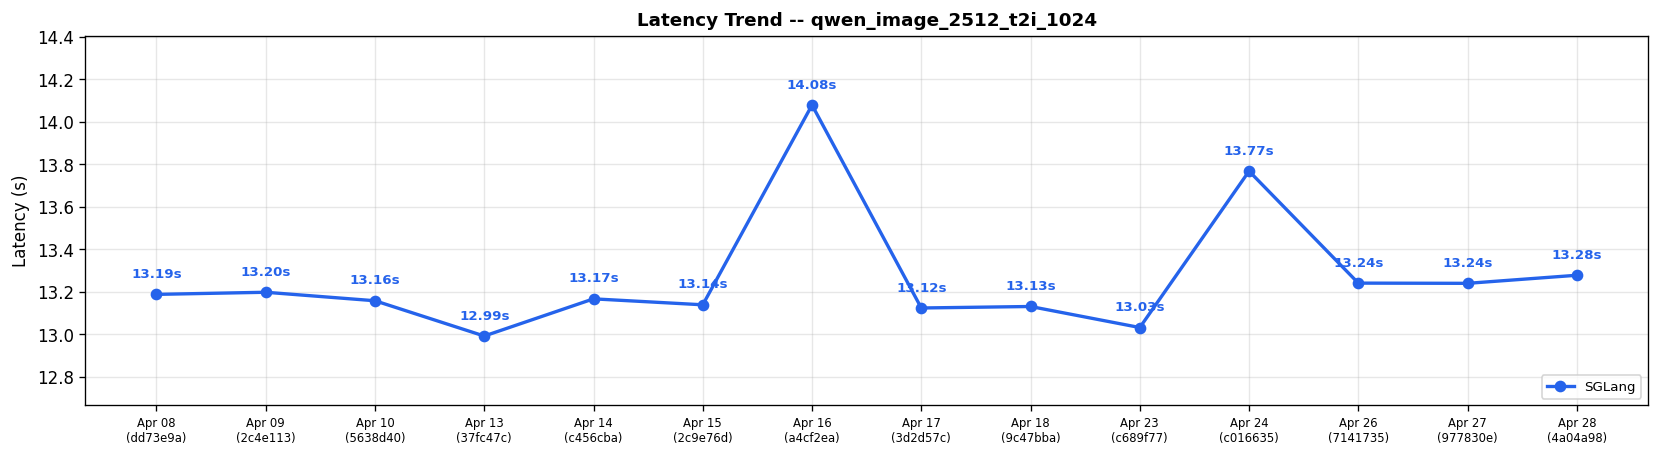
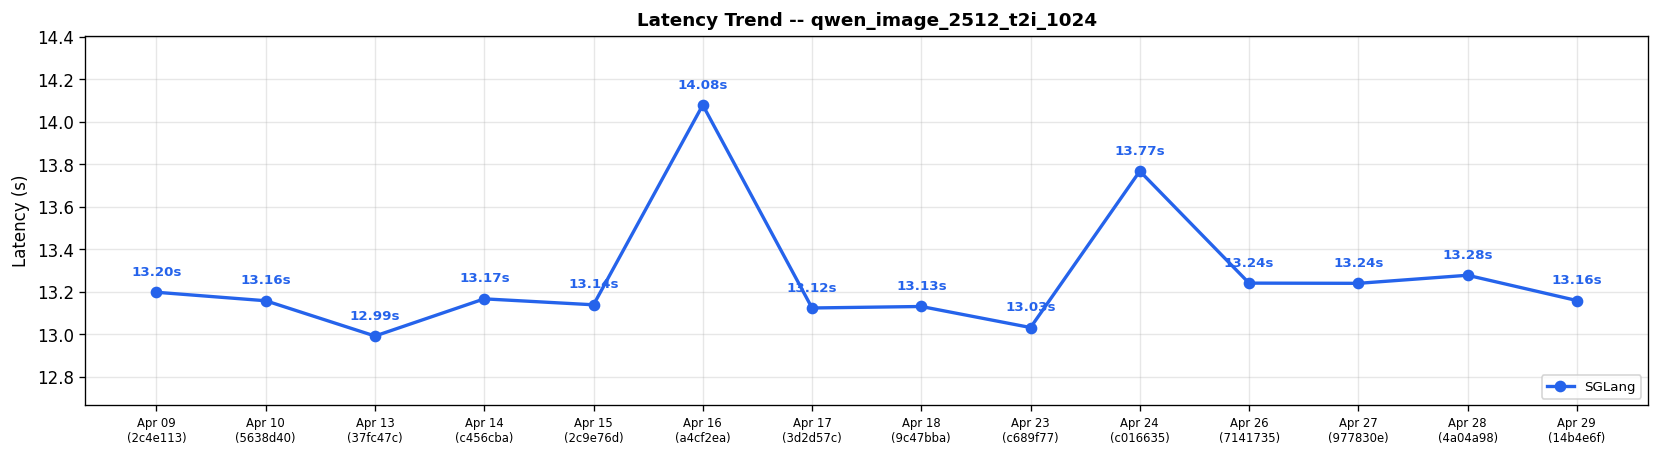
Diffusion comparison results for run 25085535219 (#586)

diff --git a/diffusion-comparisons/dashboard.md b/diffusion-comparisons/dashboard.md
@@ -1,21 +1,21 @@
 # Diffusion Cross-Framework Performance Dashboard
 
-*Generated: Apr 28 | Commit: `4a04a98`*
+*Generated: Apr 29 | Commit: `14b4e6f`*
 
 ## Cross-Framework Performance Comparison
 
 | Model | Risk | sglang (s) |
 |-------|------|---------|
 | FLUX.1-dev | ✅ | **6.69** |
-| FLUX.2-dev | ✅ | **22.75** |
-| Qwen-Image-2512 | ✅ | **13.28** |
-| Qwen-Image-Edit-2511 | ✅ | **23.89** |
+| FLUX.2-dev | ✅ | **22.78** |
+| Qwen-Image-2512 | ✅ | **13.16** |
+| Qwen-Image-Edit-2511 | ✅ | **23.84** |
 | Z-Image-Turbo | ✅ | **0.89** |
-| Wan2.2-T2V-A14B-Diffusers | ✅ | **211.33** |
-| Wan2.2-TI2V-5B-Diffusers | ✅ | **61.19** |
-| LTX-2 | ✅ | **11.84** |
+| Wan2.2-T2V-A14B-Diffusers | ✅ | **210.95** |
+| Wan2.2-TI2V-5B-Diffusers | ✅ | **62.20** |
+| LTX-2 | ✅ | **11.88** |
 | LTX-2.3 | ❌ | N/A |
-| Wan2.2-I2V-A14B-Diffusers | ✅ | **208.57** |
+| Wan2.2-I2V-A14B-Diffusers | ✅ | **207.67** |
 
 ### Latency Trend: flux1_dev_t2i_1024
 
@@ -71,6 +71,7 @@
 
 | Date | Commit | flux1_dev_t2i_1024 (s) | flux2_dev_t2i_1024 (s) | qwen_image_2512_t2i_1024 (s) | qwen_image_edit_2511 (s) | zimage_turbo_t2i_1024 (s) | wan22_t2v_a14b_720p (s) | wan22_ti2v_5b_720p (s) | ltx2_twostage_t2v (s) | ltx2.3_twostage_ti2v_2gpus (s) | wan22_i2v_a14b_720p (s) | Trend |
 |------|--------|---------|---------|---------|---------|---------|---------|---------|---------|---------|---------|-------|
+| Apr 29 | `14b4e6f` | 6.69 | 22.78 | 13.16 | 23.84 | 0.89 | 210.95 | 62.20 | 11.88 | N/A | 207.67 | :left_right_arrow:  :left_right_arrow:  :left_right_arrow:  :left_right_arrow:  :left_right_arrow:  :left_right_arrow:  :left_right_arrow:  :left_right_arrow:   :left_right_arrow: |
 | Apr 28 | `4a04a98` | 6.69 | 22.75 | 13.28 | 23.89 | 0.89 | 211.33 | 61.19 | 11.84 | N/A | 208.57 | :left_right_arrow:  :left_right_arrow:  :left_right_arrow:  :left_right_arrow:  :left_right_arrow:  :left_right_arrow:  :arrow_down:  :left_right_arrow:   :left_right_arrow: |
 | Apr 27 | `977830e` | 6.72 | 22.91 | 13.24 | 23.91 | 0.89 | 212.10 | 63.20 | 11.80 | N/A | 208.53 | :left_right_arrow:  :left_right_arrow:  :left_right_arrow:  :left_right_arrow:  :left_right_arrow:  :left_right_arrow:  :left_right_arrow:  :left_right_arrow:   :left_right_arrow: |
 | Apr 26 | `7141735` | 6.71 | 22.84 | 13.24 | 23.89 | 0.89 | 212.74 | 62.22 | 11.86 | N/A | 208.55 |          |
@@ -84,8 +85,7 @@
 | Apr 14 | `c456cba` | 6.70 | 22.85 | 13.17 | 23.83 | 0.89 | 210.52 | 62.16 | 14.58 | N/A | 206.54 | :left_right_arrow:  :left_right_arrow:  :left_right_arrow:  :left_right_arrow:  :left_right_arrow:  :left_right_arrow:  :left_right_arrow:  :left_right_arrow:   :left_right_arrow: |
 | Apr 13 | `37fc47c` | 6.60 | 22.61 | 12.99 | 23.60 | 0.88 | 209.76 | 61.17 | 14.74 | N/A | 207.63 | :left_right_arrow:  :left_right_arrow:  :left_right_arrow:  :left_right_arrow:  :left_right_arrow:  :left_right_arrow:  :left_right_arrow:  :arrow_up:   :left_right_arrow: |
 | Apr 10 | `5638d40` | 6.68 | 22.78 | 13.16 | 23.76 | 0.88 | 209.41 | 62.16 | 14.21 | N/A | 204.58 | :left_right_arrow:  :left_right_arrow:  :left_right_arrow:  :left_right_arrow:  :left_right_arrow:  :left_right_arrow:  :left_right_arrow:  :arrow_down:   :left_right_arrow: |
-| Apr 09 | `2c4e113` | 6.71 | 22.93 | 13.20 | 23.80 | 0.89 | 210.35 | 62.16 | 14.71 | N/A | 206.54 | :left_right_arrow:  :left_right_arrow:  :left_right_arrow:  :left_right_arrow:  :left_right_arrow:  :left_right_arrow:  :left_right_arrow:  :arrow_down:   :left_right_arrow: |
-| Apr 08 | `dd73e9a` | 6.83 | 22.96 | 13.19 | 23.84 | 0.89 | 210.25 | 62.20 | 15.24 | N/A | 206.65 | -- |
+| Apr 09 | `2c4e113` | 6.71 | 22.93 | 13.20 | 23.80 | 0.89 | 210.35 | 62.16 | 14.71 | N/A | 206.54 | -- |
 
 > [!CAUTION]
 > **Action Required — Performance Alert**
